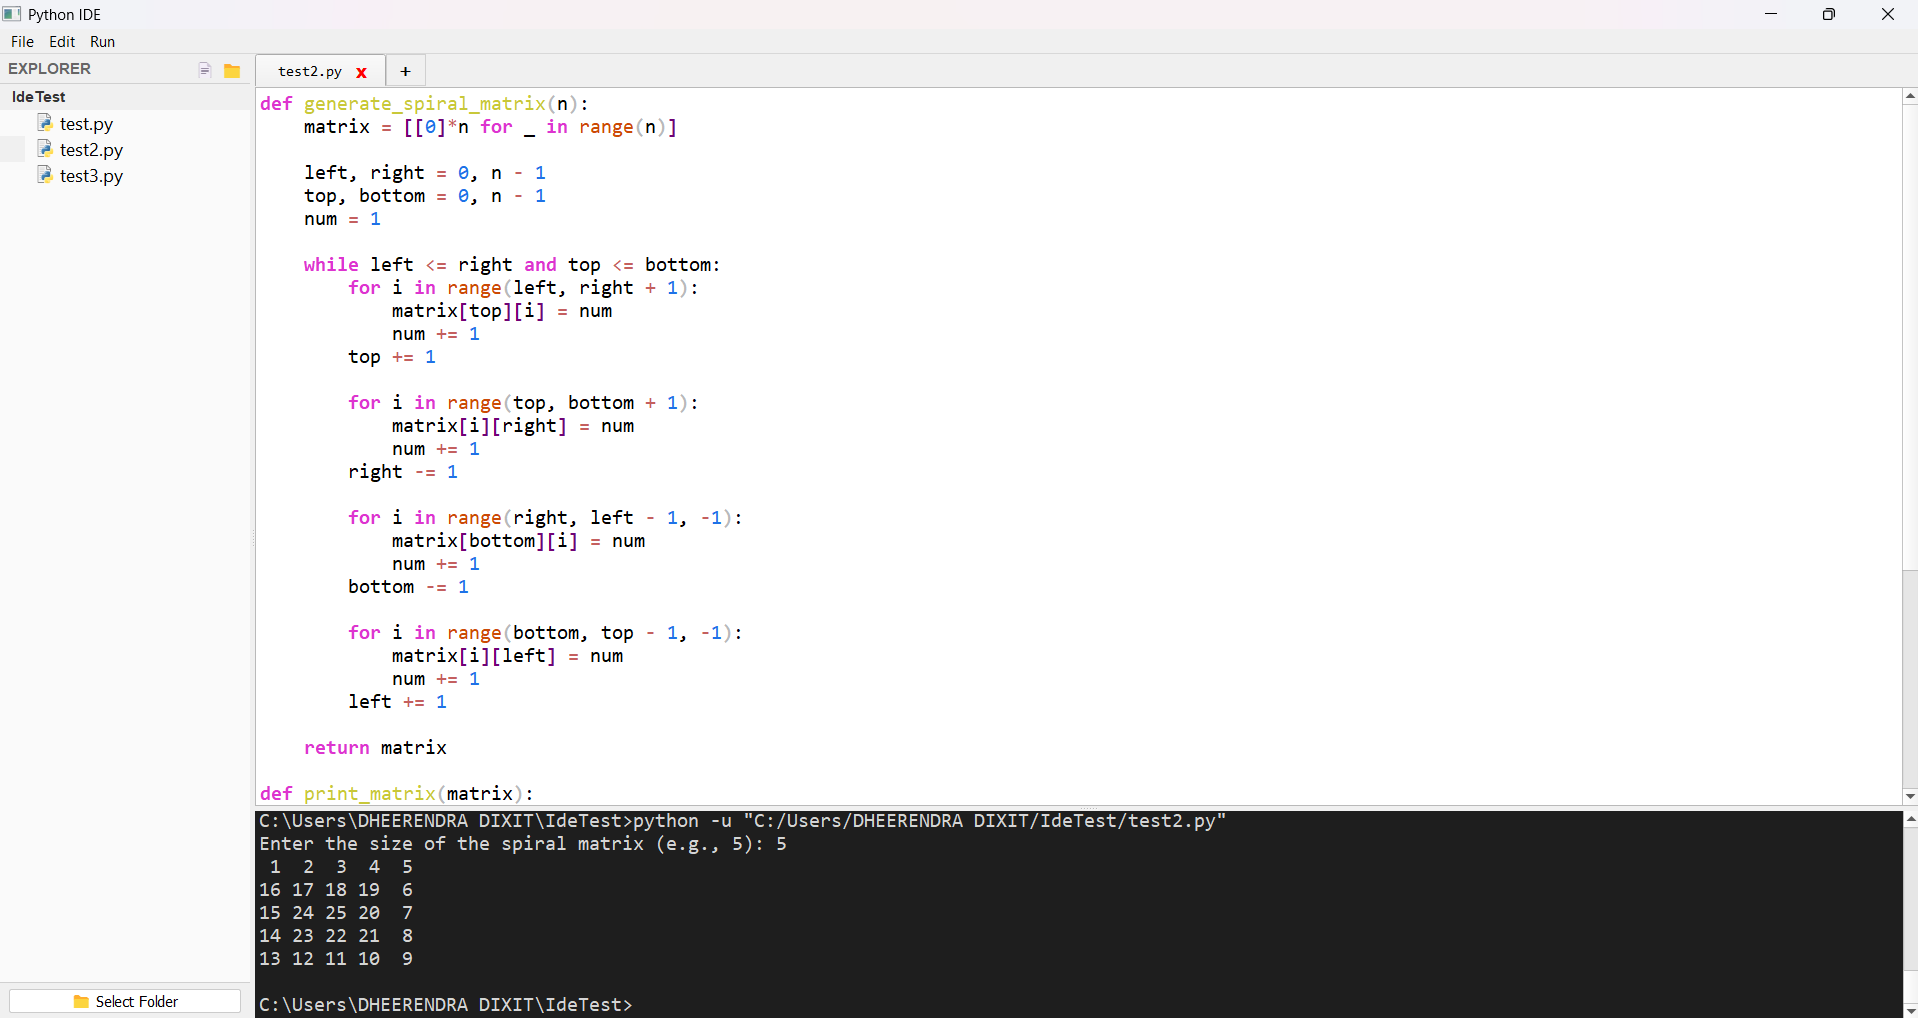
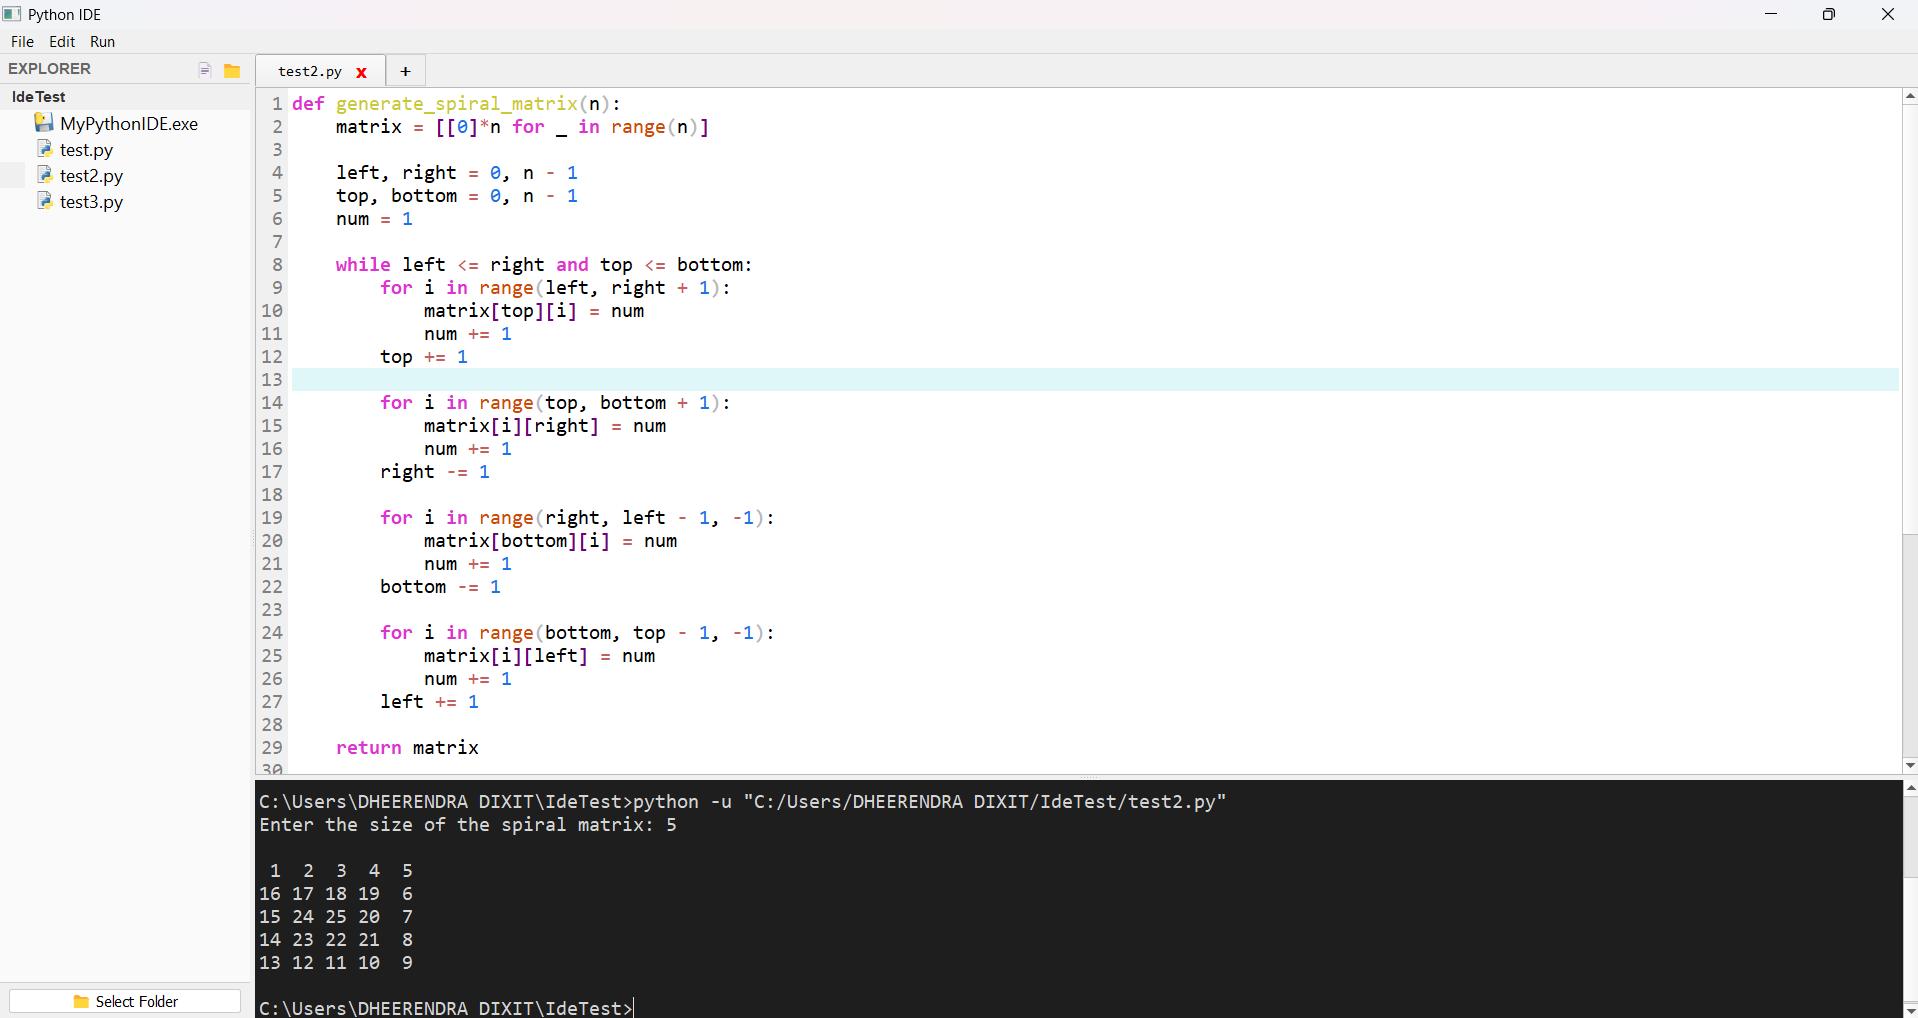
line number added

diff --git a/main.py b/main.py
@@ -42,12 +42,12 @@ class TerminalWidget(QTextEdit):
         self.process.setProcessChannelMode(QProcess.MergedChannels)
         self.process.readyReadStandardOutput.connect(self.read_output)
         self.process.start()
-    
+
     def append_output(self, text):
         self.moveCursor(QTextCursor.End)
         self.insertPlainText(text)
         self.moveCursor(QTextCursor.End)
-    
+
     def keyPressEvent(self, event):
         key = event.key()
         
@@ -64,8 +64,11 @@ class TerminalWidget(QTextEdit):
             command = self.command_buffer.strip()
             if command:
                 self.append_output("\n")
-                
-                self.process.write((command + "\n").encode("utf-8"))
+                if command.lower() in ['clear', 'cls']:
+                    self.clear_terminal()
+                else:
+                    self.append_output("\n")
+                    self.process.write((command + "\n").encode("utf-8"))
             self.command_buffer = ""
             return
         
@@ -73,29 +76,34 @@ class TerminalWidget(QTextEdit):
         if text:
             self.command_buffer += text
             self.insertPlainText(text)
-    
+
+    def clear_terminal(self):
+        self.clear()
+        self.command_buffer = ""
+        self.append_output(f"\n{os.getcwd()}> ")
+
     def change_working_directory(self, folder_path):
         if folder_path and os.path.exists(folder_path):
             drive = os.path.splitdrive(folder_path)[0]
             if drive:
                 self.process.write(f"{drive}\n".encode("utf-8"))
-            
+                
             command = f'cd /d "{folder_path}"\n'
             self.process.write(command.encode("utf-8"))
             
             self.process.setWorkingDirectory(folder_path)
-    
+
     def run_python_code(self, code, file_path=None):
         if file_path and os.path.exists(file_path):
             command = f'python -u "{file_path}"\n'
             self.process.write(command.encode('utf-8'))
         else:
             self.append_output("Cannot run unsaved code. Please save the file first.\n")
-    
+
     def read_output(self):
         output = self.process.readAllStandardOutput().data().decode("utf-8")
         self.emitter.output_signal.emit(output)
-    
+
     def closeEvent(self, event):
         if self.process.state() == QProcess.Running:
             self.process.terminate()

diff --git a/README.md b/README.md
@@ -7,15 +7,27 @@ A modern, lightweight, and customizable Python IDE built entirely with **Python*
 ## 🚀 Features
 
 - 📄 **Multi-tab Editor** (like VS Code or Notepad)
+
 - ➕ **Add New Tab Button** next to tabs (just like Notepad)
+
 - 🧠 **Auto Bracket & Quote Closing** (`{}`, `""`, `''`, `()`, `[]`)
+
 - 🎨 **Syntax Highlighting** with `QSyntaxHighlighter` for Python
-- 🔍 **Find and Replace**
+
+- 🔢 **Line Numbers** for every editor tab
+
+- 🔍 **Find and Replace** with find next and previous
+
 - 💾 **Open, Save, Save As, New File** functionality
+
 - ▶ **Run Python Code** inside the IDE
+
 - 🖥 **Integrated Terminal** with real-time input/output (supports `input()`)
+
 - 💡 **Jedi-powered Autocompletion** — Context-aware suggestions, variables, functions, and modules
+
 - 📁 **File Explorer** on the left panel (navigate & open files)
+
 - ⌨ **Keyboard Shortcuts**
   - `Ctrl + N` — New File
   - `Ctrl + O` — Open File
